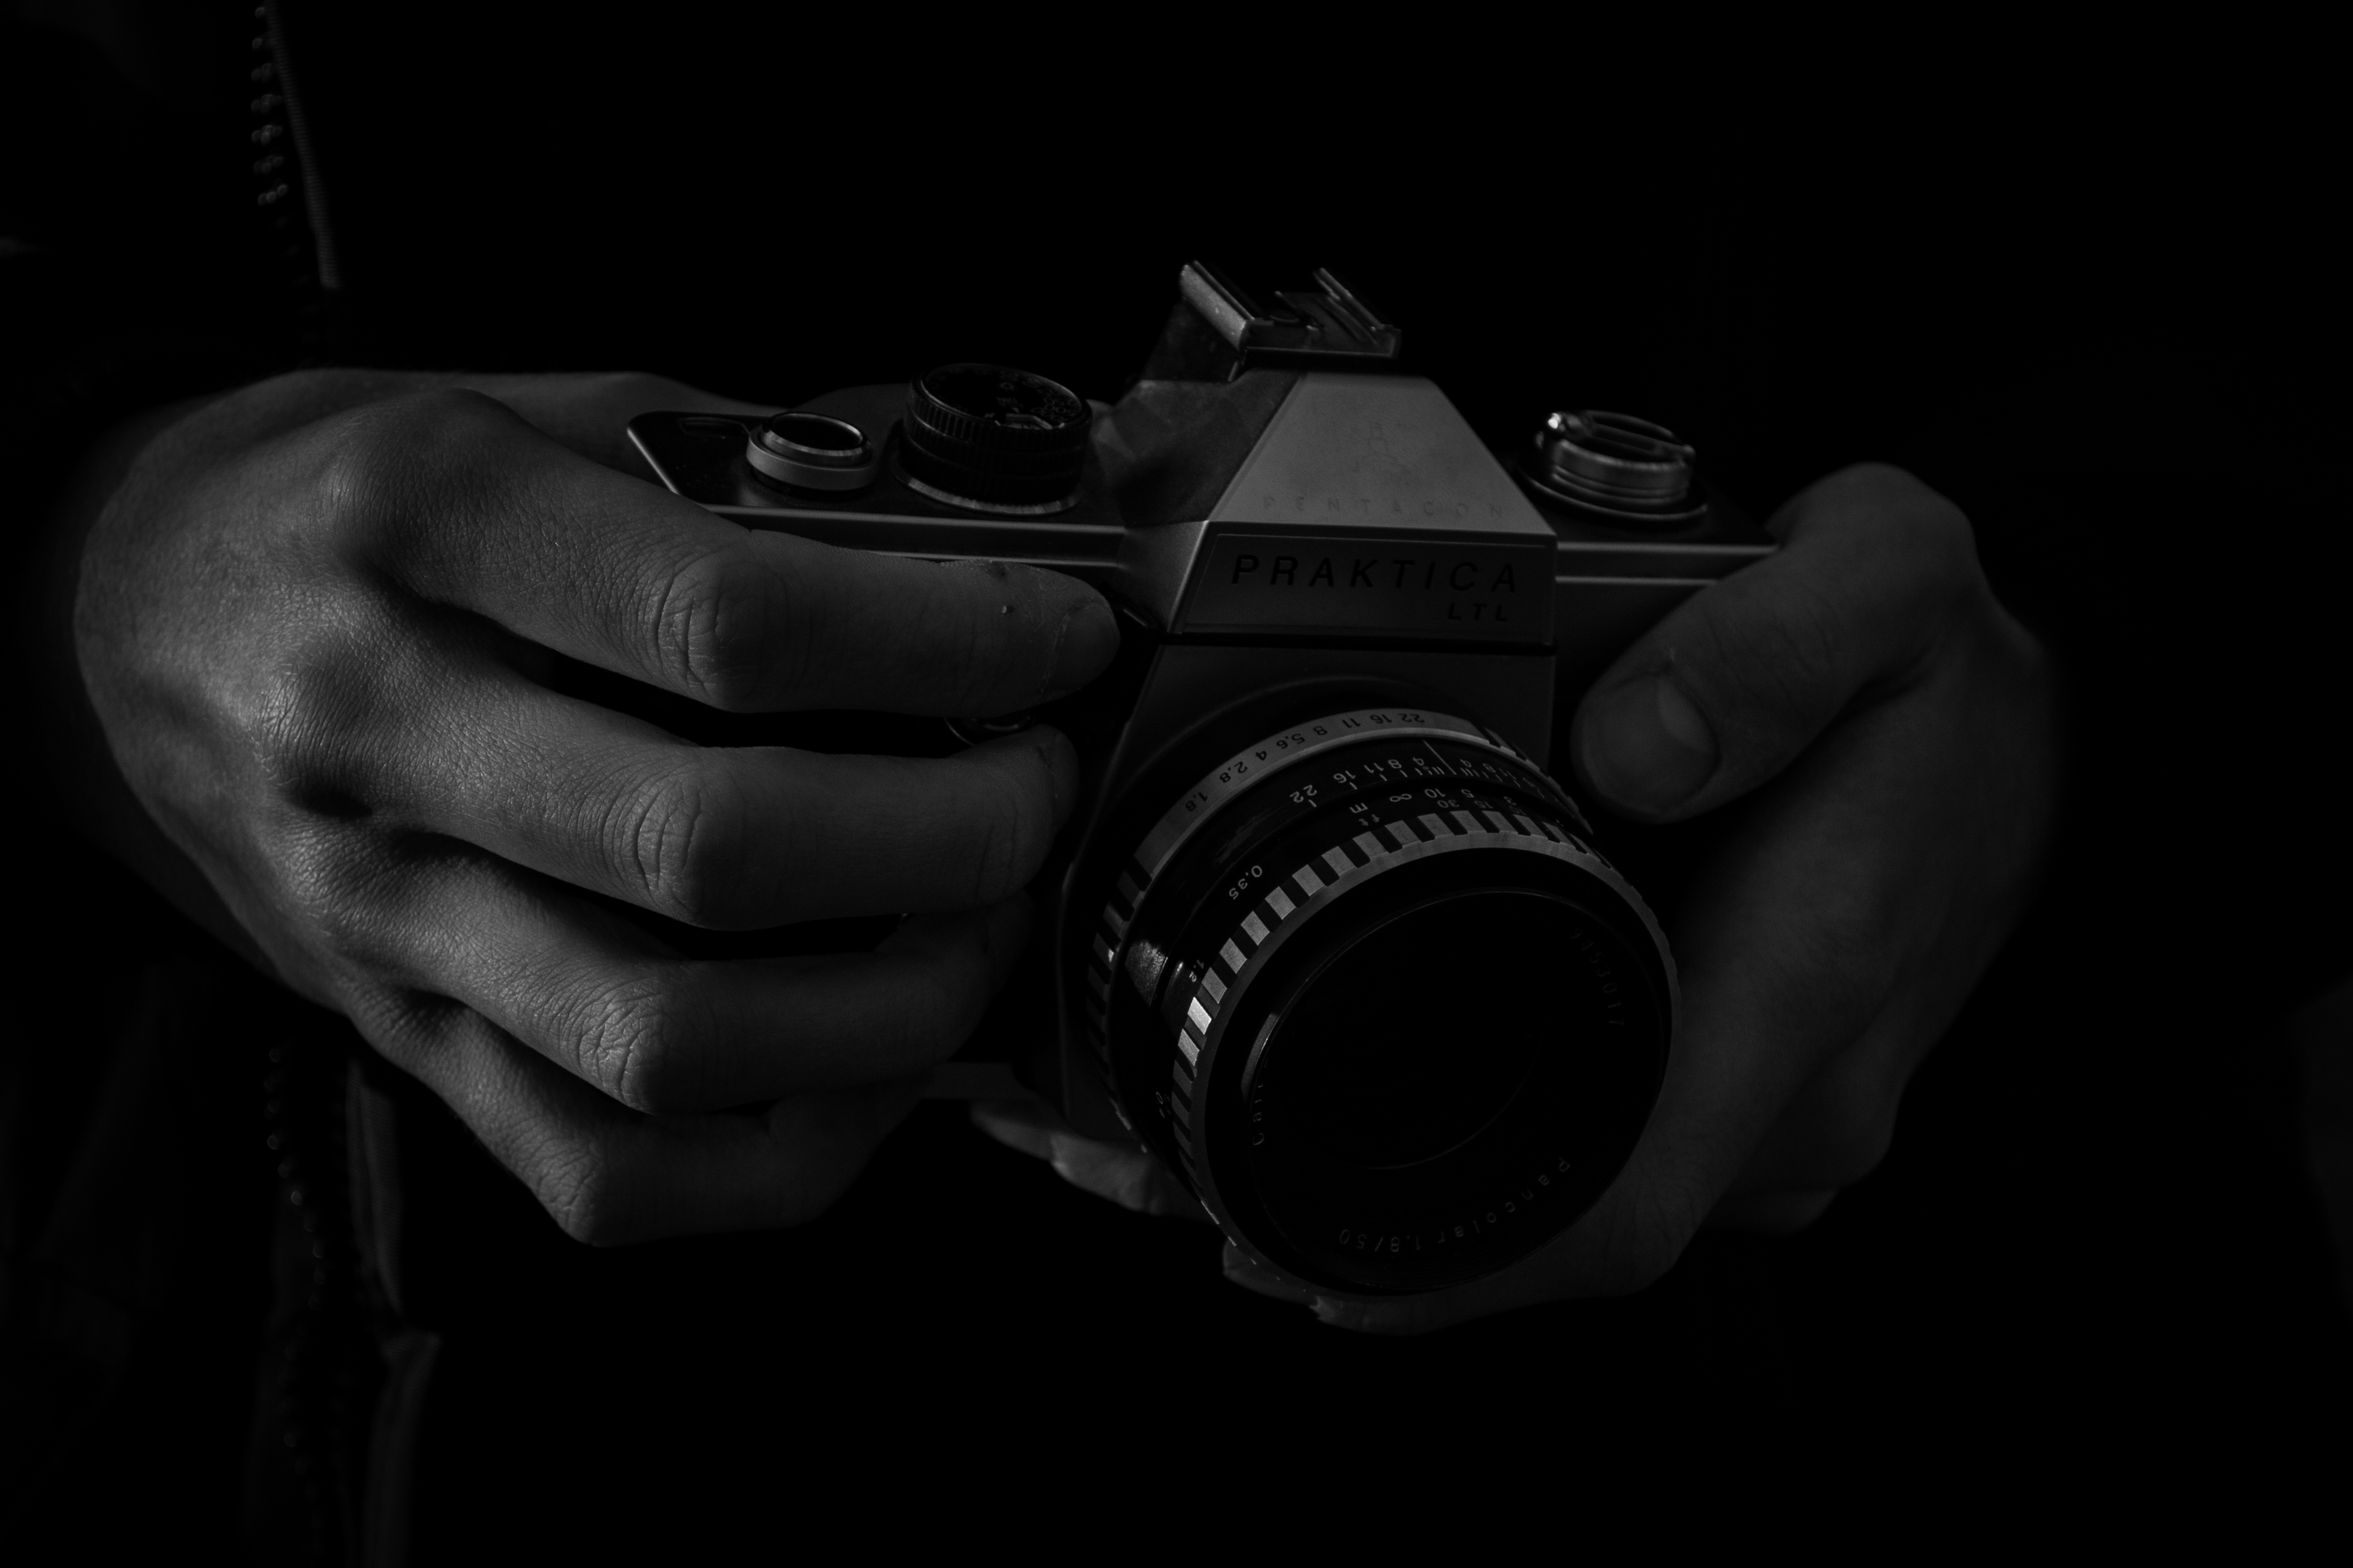
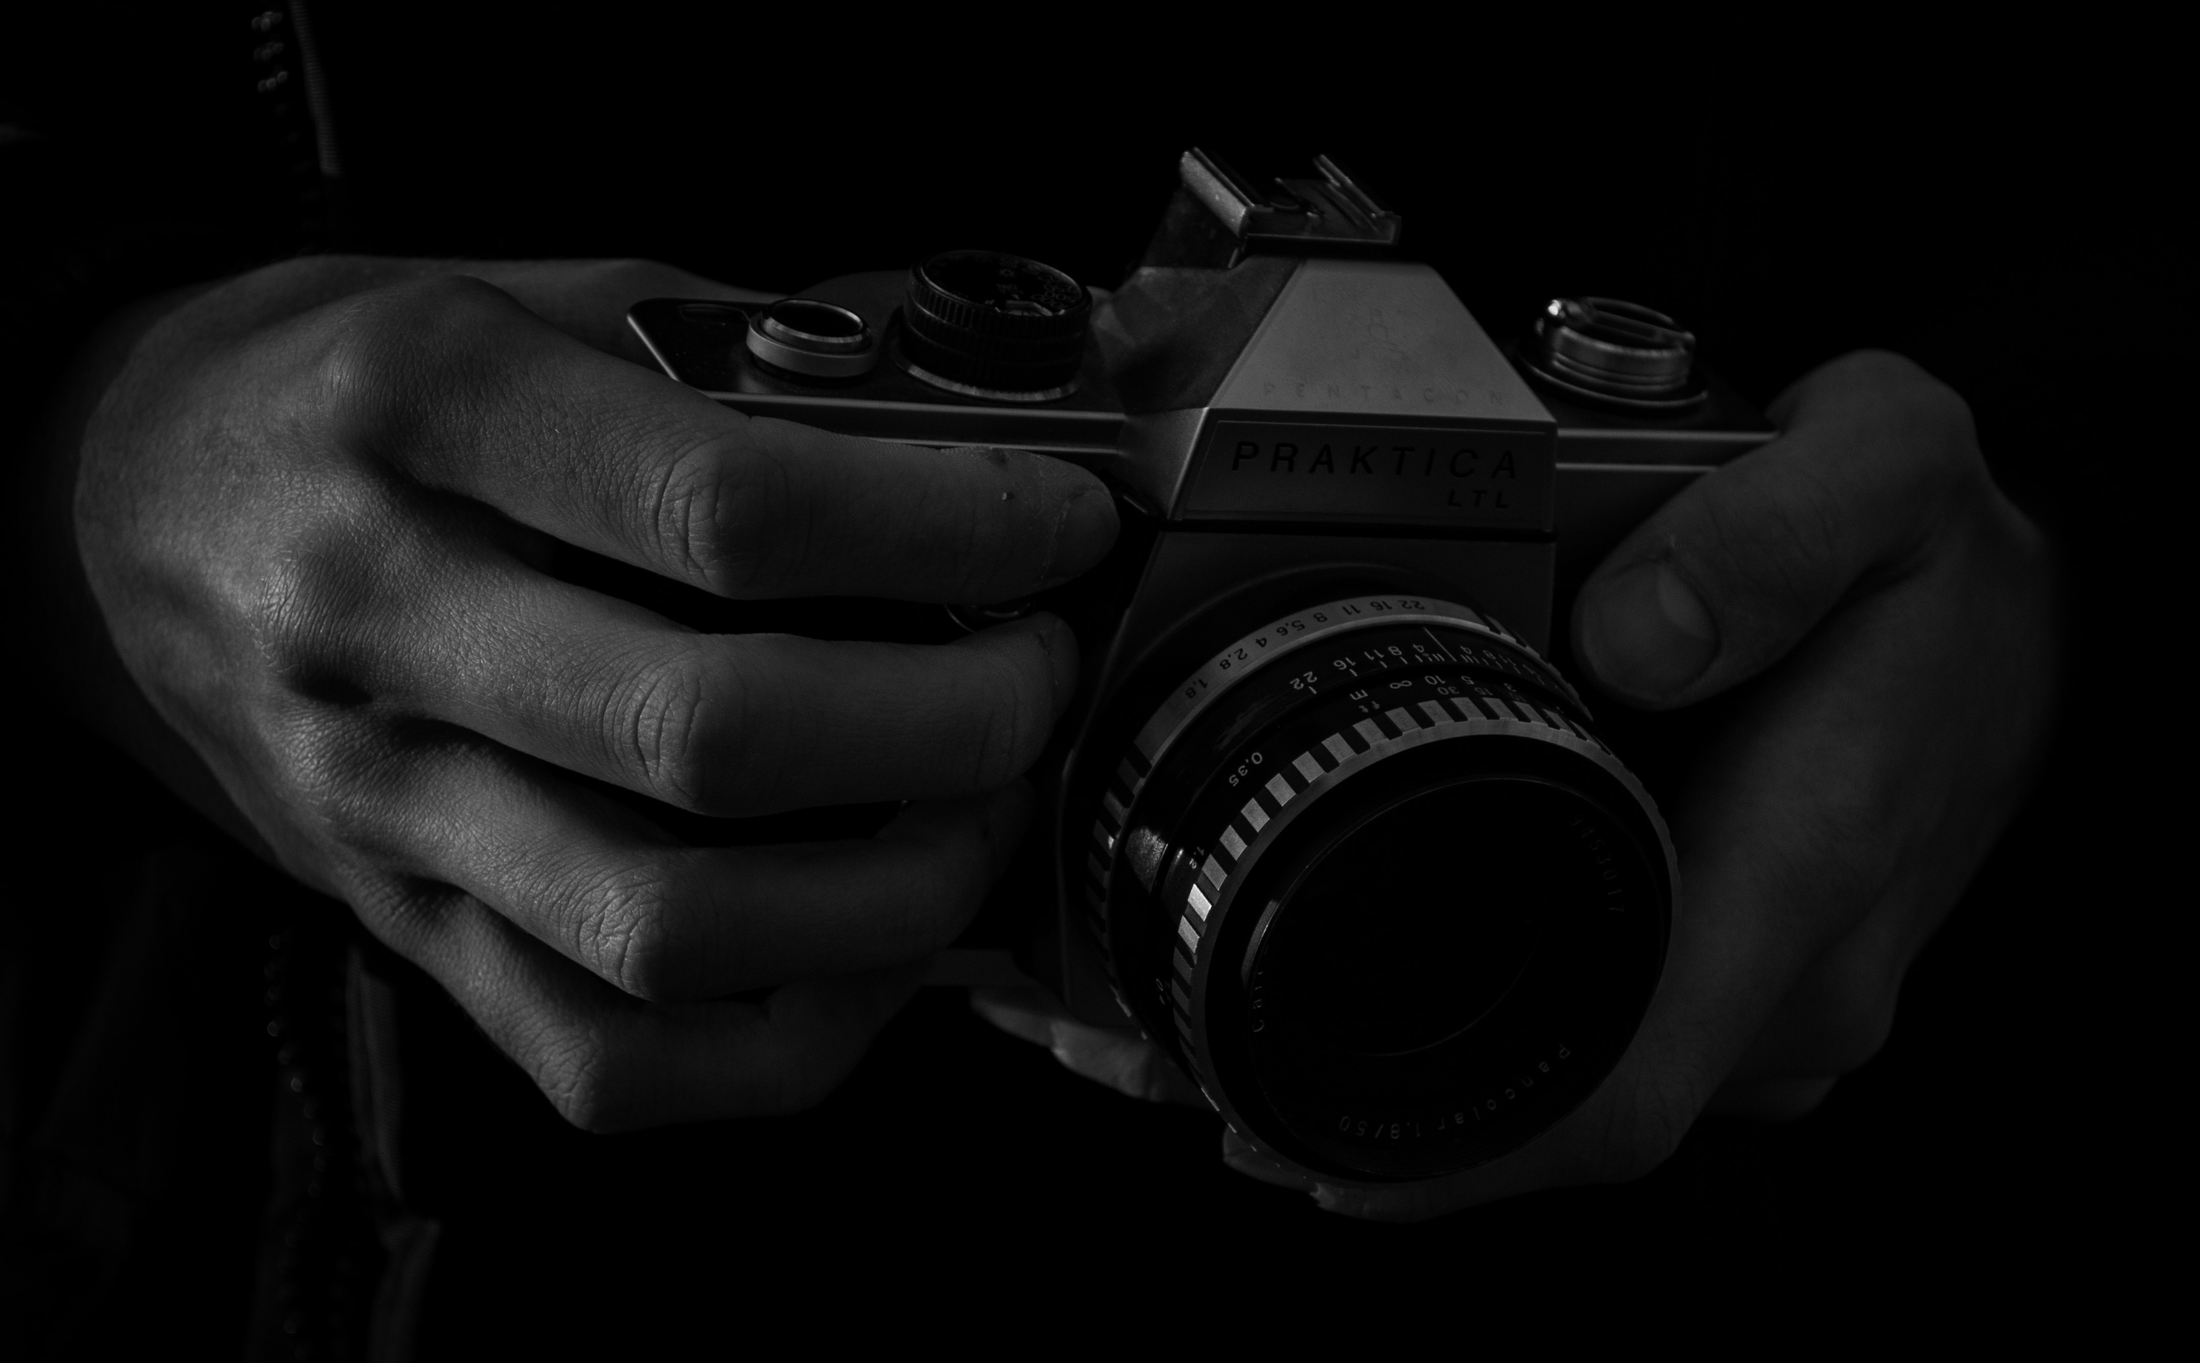
Add header to mobile version of people page Fix header in laptop version Change size of camera_in_hands photo

diff --git a/style.css b/style.css
@@ -1,3 +1,7 @@
+@import url('https://fonts.googleapis.com/css?family=Open+Sans:300,400,600,700');
+
+/*laptop version*/
+
 @-webkit-keyframes glow {
     from {
       text-shadow: 0 0 5px #fff, 0 0 10px #fff, 0 0 15px #0210DC, 0 0 20px #0210DC, 0 0 25px #0210DC, 0 0 30px #0210DC, 0 0 35px #0210DC;
@@ -7,49 +11,68 @@
     }
 }
 
+
+* {
+    margin: 0;
+    padding: 0;
+}
+
 body{
     background-color: black;
-    font-family: Open Sans;
-    color: white;
+    font-family: "Open Sans";
     width: 90%;
     margin: 40px auto;
 }
 
-home_header{
+.home_header{
     display: grid;
     column-gap: 4%;
     grid-template-columns: 30% 15% 33% 15%;
     grid-template-rows: 400px 400px;
 }
 
+.photo_hands{
+    height: 65%;
+}
+
 .title{
     font-size: 100px;
     font-weight: 600;
+    color: white;
 }
 
 .description{
     color: #F6F4ED;
-    font-size: 19px;
-    font-weight: 100;
-    margin-top: 170px;
+    font-size: 20px;
+    font-weight: 300;
+    margin-top: 150px;
 }
 
 .navigation, a:link, a:visited {
     text-decoration: none;
     color: #F6F4ED;
-    margin-top: 110px;
 }
 
 .menu{
+    width: 40px;
+    height: 10px;
+    font-size: 17px;
     transform: rotate(-90deg);
-    margin-bottom: 150px;
+    font-weight: 300;
+    padding: 20px 0px 100px 100px;
+    margin-top: 80px;
+    margin-left: 40px;
+}
+
+.photo_me{
+    width: 100%;
+    height: 590px;
 }
 
 .photos_block1{
     display: grid;
     column-gap: 13px;
     grid-template-columns: 39.3% 23.5% 30%;
-
     margin-bottom: 13px;
 }
 
@@ -199,4 +222,85 @@ nav{
     display: grid;
     grid-template-columns: 37% 60%;
     column-gap: 1.7%;
+}
+
+/*mobile version*/
+
+@media only screen and (max-width: 480px) {
+
+    body{
+        width: 90%;
+    }
+    
+    /*header block*/
+
+    .home_header{
+        display: flex;
+        flex-direction: column;
+    }
+
+    .navigation{
+        order: 1;
+        width: 100%;
+        margin-top: 0px;
+        display: flex;
+        font-size: 10px;
+    }
+
+    .menu{
+        width: auto;
+        height: auto;
+        font-size: 10px;
+        transform: rotate(0deg);
+        margin-bottom: 0px;
+        margin-left: auto;
+        margin-right: auto;
+        padding: 0px 0px 0px 0px;
+        margin-top: 0px;
+        margin-left: 0px;
+    }
+
+    .menu a{
+        padding: 0px 30px 0px;
+    }
+    
+    .photo_me{
+        order: 2;
+        margin-left: 40%;
+        padding-top: 30px;
+        width: 60%;
+        height: 100%;
+    }
+
+    .title{
+        order: 3;
+        font-size: 65px;
+        text-align: center;
+        margin-top: -50px;
+    }
+
+    .description{
+        order: 4;
+        font-size: 12px;
+        margin-top: 0px;
+        width: 45%;
+        margin-left: 55%;
+    }
+
+    .photo_hands{
+        order: 5;
+        width: 75%;
+    }
+    
+    /*main block*/
+
+    main{
+        display: none;
+    }
+
+    /*footer block*/
+
+    footer{
+        display: none;
+    }
 }

diff --git a/index.html b/index.html
@@ -2,36 +2,35 @@
 <html>
 <head>
 	<meta charset="utf-8">
-	<meta name="viewport" content="width=device-width" />
-	<link rel="stylesheet" href="style.css" />
+	<meta name="viewport" content="width=device-width, initial-scale=1.0">
+	<link rel="stylesheet" href="style.css">
+	<link rel="preconnect" href="https://fonts.googleapis.com">
 	
 	<title>Arsenii Buriak</title>
 </head>
 
-<home_header>
+<div class="home_header">
 	<div class="photo_hands">
-		<img src="Photos/camera_in_hands.jpg" width="450px" height="310px" alt="camera.jpg">
+		<img src="Photos/camera_in_hands.jpg" width="100%" height="100%" alt="camera.jpg">
 	</div>
 
 	<div class="description">
-		Hi, I’m a photographer based in Canada. 
-		bla bla bla bla bla bla bla bla bla bla bla bla bla bla bla.
-		I love my girlfriend more than anything in my entire life, accept me dog.  
+		Hey, I am Ukrainian photographer based in Toronto. You can find examples of my photos on this website. Make yourself at home!
 	</div>
 
 	<div class="photo_me">
-		<img src="Photos/me_b&w_1.jpg" width="490px" height="640px" alt="my_portrait.jpg">
+		<img src="Photos/me_b&w_1.jpg" width="100%" height="100%" alt="my_portrait.jpg">
 	</div>
 
 	<div class="navigation">
 		<div class='menu'>
-			<a href="#categories">Photos</a>
+			<a href="#categories">photos</a>
 		</div> 
 		<div class='menu'>
-			<a href="index.html">Appointment</a>
+			<a href="index.html">appointment</a>
 		</div>
 		<div class='menu'>
-			<a href="index.html">Contact</a>
+			<a href="index.html">contact</a>
 		</div>
 	</div>
 
@@ -40,7 +39,7 @@
 		<br>
 		BURIAK
 	</div>
-</home_header>
+</div>
 
 <main>
 	<div class="photos_block1">
